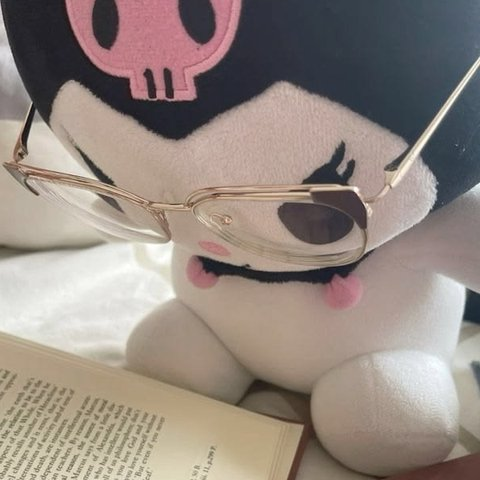
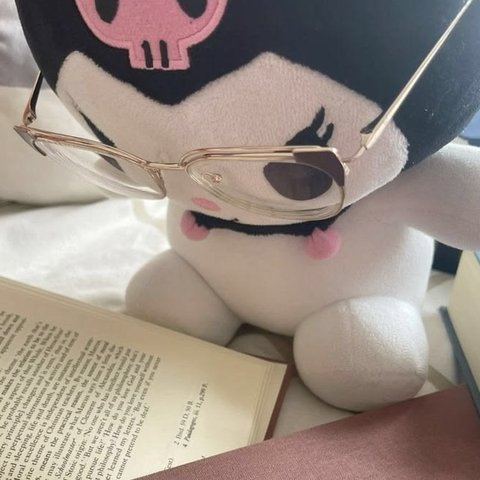
제목·부제목·설명 문구 변경, 대표 사진을 책이 더 보이게 다시 자르기
Claude-Session: https://claude.ai/code/session_019YQL3YQJHCTEPr14MBD9vN

diff --git a/index.html b/index.html
@@ -9,23 +9,23 @@
 <meta name="Yeti" content="noindex, nofollow">
 <!-- 수정할 때마다 아래 파일 주소의 ?v= 값을 바꿔야 휴대폰에서도 바로 새 버전이 보인다 -->
 <meta http-equiv="Cache-Control" content="no-cache">
-<title>예일1 단어 테스트</title>
-<link rel="icon" href="icon.png?v=20261105e" type="image/png">
-<link rel="apple-touch-icon" href="icon.png?v=20261105e">
+<title>예일 빠바 단어 테스트</title>
+<link rel="icon" href="icon.png?v=20261105f" type="image/png">
+<link rel="apple-touch-icon" href="icon.png?v=20261105f">
 <link rel="preconnect" href="https://fonts.googleapis.com">
 <link rel="preconnect" href="https://fonts.gstatic.com" crossorigin>
 <link href="https://fonts.googleapis.com/css2?family=Noto+Sans+KR:wght@400;500;700;800&display=swap" rel="stylesheet">
-<link rel="stylesheet" href="style.css?v=20261105e">
+<link rel="stylesheet" href="style.css?v=20261105f">
 </head>
 <body>
 
 <!-- 1. 시작 화면 -->
 <section id="home" class="screen">
   <header class="hero">
-    <img class="logo-photo" src="hero.jpg?v=20261105e" alt="">
-    <h1>예일1</h1>
-    <p class="sub-title">예일 빠바 단어 테스트</p>
-    <p class="desc">파트를 고르고 카드 테스트를 하거나 시험지를 만들어 보세요.</p>
+    <img class="logo-photo" src="hero.jpg?v=20261105f" alt="">
+    <h1><span class="heart">🖤</span> 예일 <span class="heart">🖤</span></h1>
+    <p class="sub-title">빠바 단어 테스트</p>
+    <p class="desc">원하는 지문을 선택하고<br>카드 테스트를 하거나 시험지를 만들어 보세요.</p>
   </header>
 
   <div class="card">
@@ -120,7 +120,7 @@
   <div id="pages"></div>
 </section>
 
-<script src="words.js?v=20261105e"></script>
-<script src="app.js?v=20261105e"></script>
+<script src="words.js?v=20261105f"></script>
+<script src="app.js?v=20261105f"></script>
 </body>
 </html>

diff --git a/style.css b/style.css
@@ -304,3 +304,6 @@ button { font-family: inherit; cursor: pointer; }
 }
 .cat-tab.active.cat-1 .tab-count { background: var(--point); color: var(--dark); }
 .tab-hint { margin: 0; font-size: 13px; }
+
+/* 제목 양옆 하트 */
+.heart { font-size: .6em; vertical-align: .15em; }
